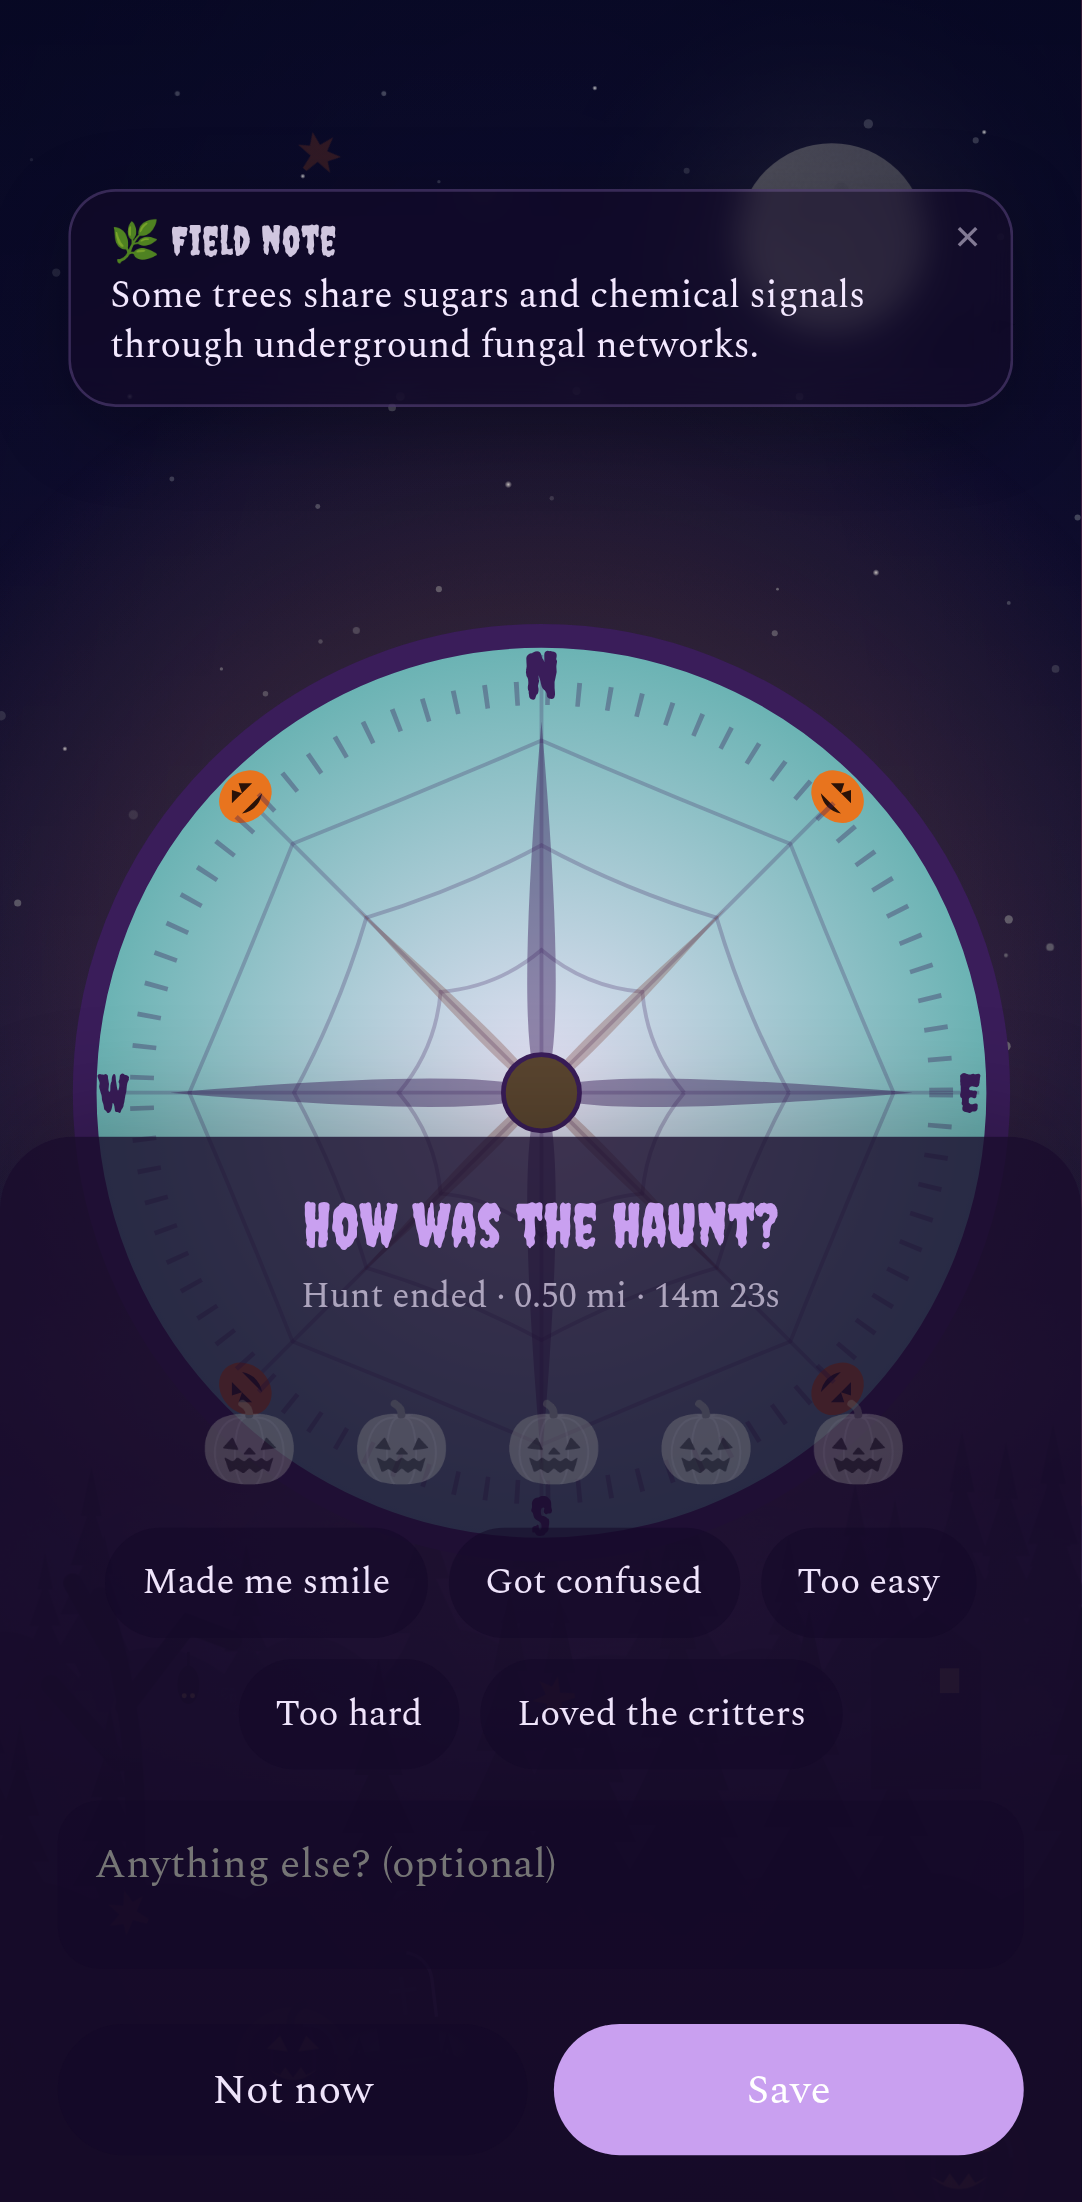
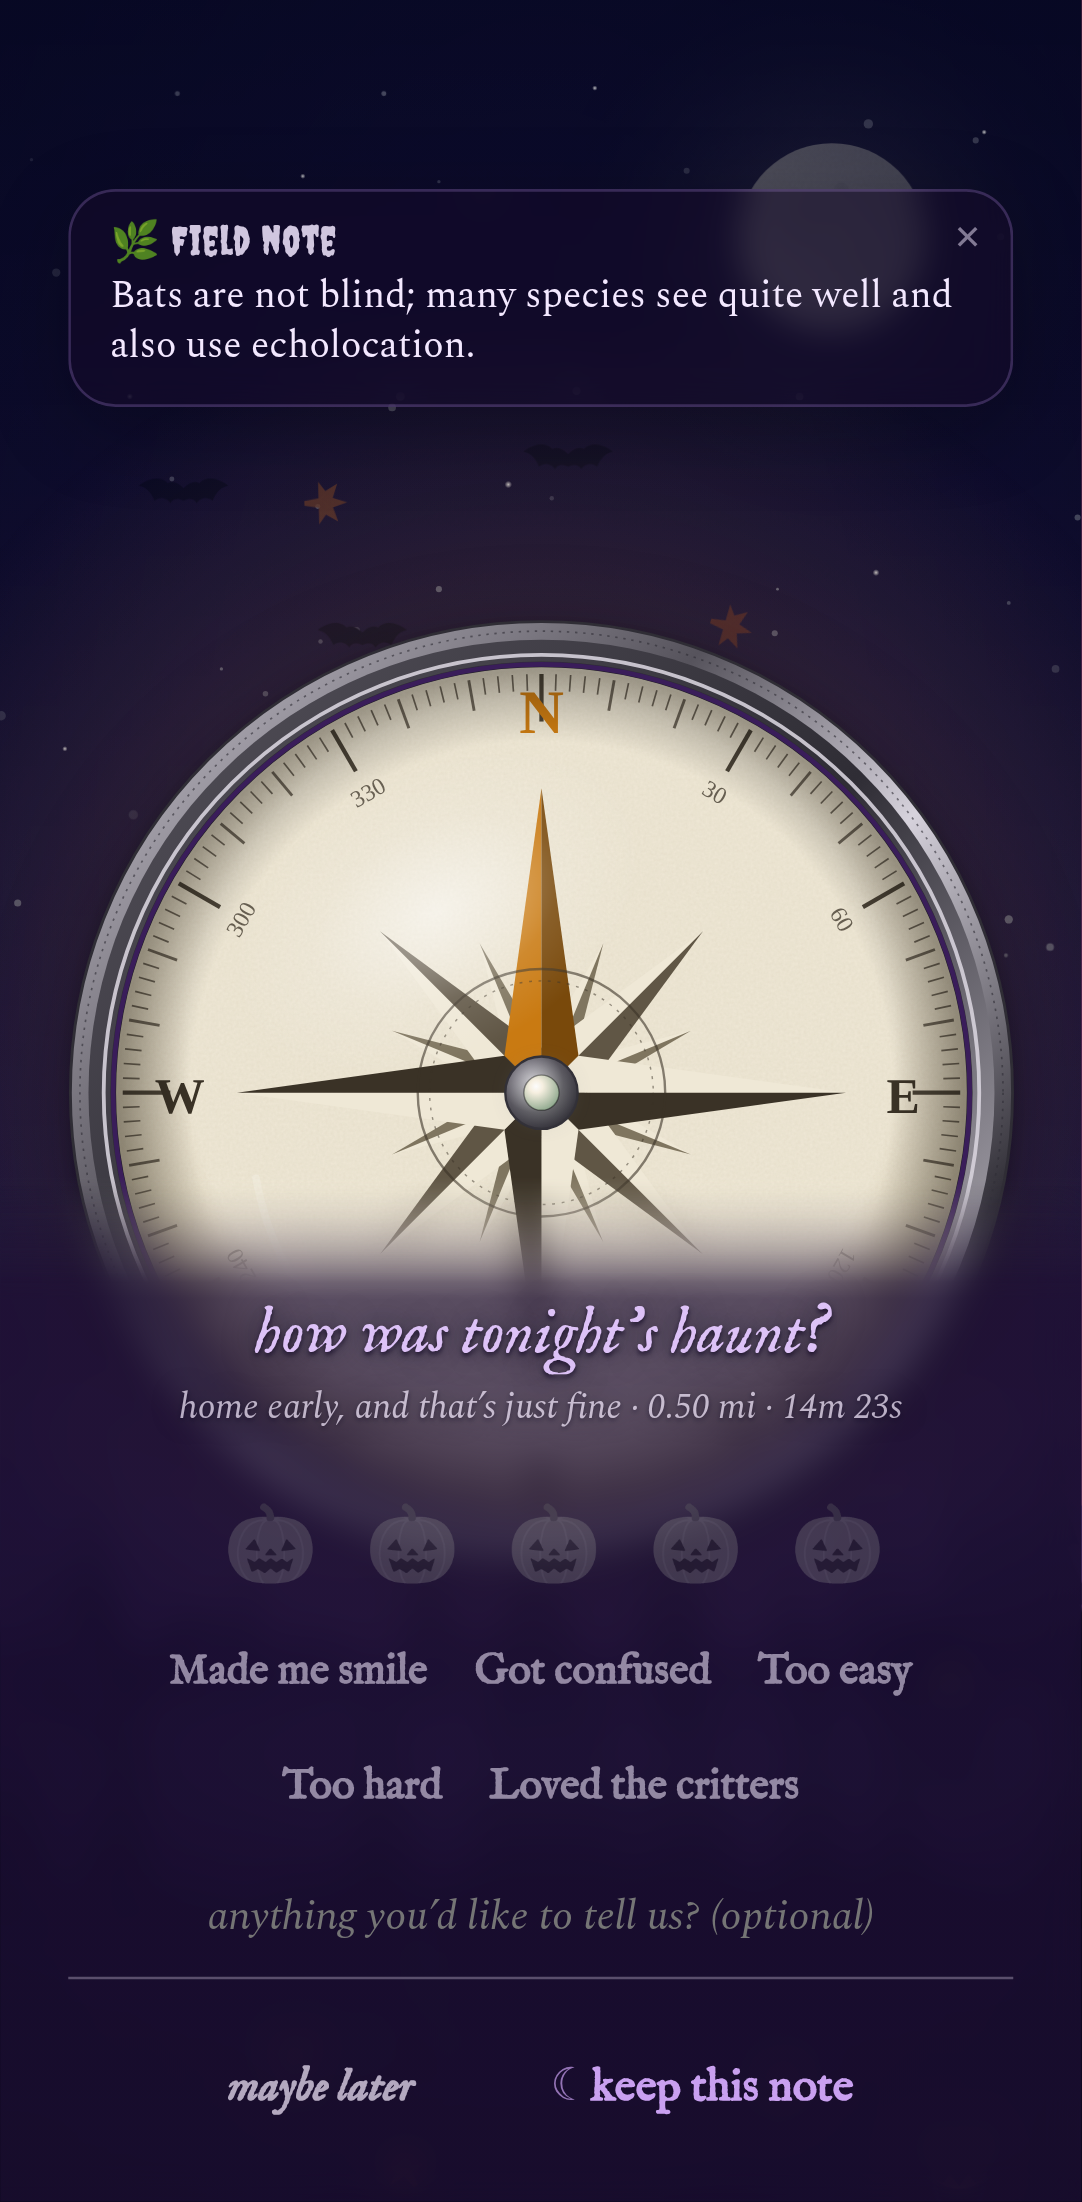
Feedback card (no-bubble, narrator tone, local log, mailto)

diff --git a/index.html b/index.html
@@ -1,5 +1,5 @@
-<!DOCTYPE html><html lang="en"><head><meta charset="utf-8"><meta http-equiv="Cache-Control" content="no-cache, no-store, must-revalidate"><meta http-equiv="Pragma" content="no-cache"><meta http-equiv="Expires" content="0"><meta name="ttu-build" content="202610232222"><meta name="viewport" content="width=device-width,initial-scale=1,viewport-fit=cover">
-<title>Trail Trade-Up · Solo Hunt</title><meta name="theme-color" content="#1f4d3a"><link rel="manifest" href="manifest.json?v=202610232222"><link rel="icon" href="icon-192.png?v=202610232222"><link rel="apple-touch-icon" href="icon-192.png?v=202610232222"><meta name="mobile-web-app-capable" content="yes"><meta name="apple-mobile-web-app-capable" content="yes"><meta name="apple-mobile-web-app-status-bar-style" content="black-translucent"><meta name="apple-mobile-web-app-title" content="Trail Hunt">
+<!DOCTYPE html><html lang="en"><head><meta charset="utf-8"><meta http-equiv="Cache-Control" content="no-cache, no-store, must-revalidate"><meta http-equiv="Pragma" content="no-cache"><meta http-equiv="Expires" content="0"><meta name="ttu-build" content="202610232224"><meta name="viewport" content="width=device-width,initial-scale=1,viewport-fit=cover">
+<title>Trail Trade-Up · Solo Hunt</title><meta name="theme-color" content="#1f4d3a"><link rel="manifest" href="manifest.json?v=202610232224"><link rel="icon" href="icon-192.png?v=202610232224"><link rel="apple-touch-icon" href="icon-192.png?v=202610232224"><meta name="mobile-web-app-capable" content="yes"><meta name="apple-mobile-web-app-capable" content="yes"><meta name="apple-mobile-web-app-status-bar-style" content="black-translucent"><meta name="apple-mobile-web-app-title" content="Trail Hunt">
 <link rel="stylesheet" href="https://unpkg.com/leaflet@1.9.4/dist/leaflet.css"><script src="https://unpkg.com/leaflet@1.9.4/dist/leaflet.js"></script>
 <link rel="preconnect" href="https://fonts.googleapis.com"><link rel="preconnect" href="https://fonts.gstatic.com" crossorigin><link rel="stylesheet" href="https://fonts.googleapis.com/css2?family=Amatic+SC:wght@700&family=Cormorant+Garamond:ital,wght@0,500;0,600;1,500&family=Creepster&family=Fraunces:ital,opsz,wght@0,9..144,400;0,9..144,600;1,9..144,400&family=IM+Fell+English:ital@0;1&family=IM+Fell+English+SC&family=Nunito:wght@400;600;700&family=Pacifico&family=Spectral:ital,wght@0,400;0,600;1,400&display=swap">
 <style>
@@ -1734,5 +1734,60 @@ const sm=document.querySelector('#sxSug small'),ah=esc(A[0])+' <b>'+esc(A[1])+'<
 const w=document.createTreeWalker(b,NodeFilter.SHOW_TEXT);let n;while(n=w.nextNode()){const t=n.textContent.trim();if(t&&T[t]&&T[t]!==t)n.textContent=n.textContent.replace(t,T[t])}}catch(e){}}
 let q=0;new MutationObserver(()=>{if(!q)q=requestAnimationFrame(()=>{q=0;run()})}).observe(document.body,{subtree:true,childList:true,characterData:true,attributes:true,attributeFilter:['data-th']});
 run();window.TTU_VOICE={BEGIN,ADJ,T};})();
+</script>
+<style id="fbCSS">
+#fbCard{position:fixed;left:0;right:0;bottom:0;z-index:9000;padding:44px 26px calc(20px + env(safe-area-inset-bottom));background:linear-gradient(to bottom,transparent,var(--veil,var(--clr,rgba(250,244,230,.8))) 46px)!important;-webkit-backdrop-filter:blur(7px);backdrop-filter:blur(7px);-webkit-mask:linear-gradient(to bottom,transparent,#000 40px);mask:linear-gradient(to bottom,transparent,#000 40px);color:var(--fg,#3b2f22);transform:translateY(40px);opacity:0;transition:transform .6s cubic-bezier(.2,.8,.2,1),opacity .6s;font-family:var(--fb,system-ui);text-align:center;text-shadow:0 1px 2px var(--tsh,transparent),0 0 12px var(--tsh,transparent)}
+#fbCard.on{transform:none;opacity:1}
+#fbCard h3{margin:0 0 2px;font-family:var(--fx,var(--fh,Georgia,serif));font-style:italic;font-weight:500;font-size:calc(1.5rem*var(--fxs,1));color:color-mix(in srgb,var(--sel) 55%,var(--fg))}
+#fbCard .fbS{opacity:.7;font-size:.85rem;font-style:italic;margin:0 0 10px}
+#fbStars{display:flex;justify-content:center;gap:4px;margin:2px 0 10px}
+#fbStars button{width:50px;height:50px;border:0;background:none!important;box-shadow:none;font-size:1.8rem;filter:grayscale(1);opacity:.3;transition:transform .25s,opacity .25s,filter .25s;cursor:pointer}
+#fbStars button.on{filter:drop-shadow(0 0 8px var(--aglow,transparent));opacity:1;transform:scale(1.1)}
+#fbChips{display:flex;flex-wrap:wrap;justify-content:center;gap:2px 14px;margin:0 0 8px}
+#fbChips button{border:0;background:none!important;box-shadow:none;padding:8px 2px;min-height:42px;color:inherit;font-family:var(--fx,var(--fh));font-size:calc(1rem*var(--fxs,1));opacity:.55;cursor:pointer;transition:opacity .25s,color .25s}
+#fbChips button.on{opacity:1;color:var(--sel);font-weight:600}
+#fbNote{width:100%;box-sizing:border-box;border:0;border-bottom:1px solid color-mix(in srgb,var(--fg) 30%,transparent);border-radius:0;padding:8px 2px;background:none;color:inherit;font:inherit;font-style:italic;resize:none;height:44px;text-align:center}
+#fbCard .fbB{display:flex;justify-content:center;gap:28px;margin-top:10px}#fbCard .fbB button,#fbCard .fbB a{min-height:48px;border:0;background:none!important;box-shadow:none;color:inherit;font-family:var(--fx,var(--fh));font-size:calc(1.08rem*var(--fxs,1));cursor:pointer;display:flex;align-items:center;justify-content:center;text-decoration:none}
+#fbSave,#fbShare{color:var(--sel)!important;font-weight:600}#fbSave::before,#fbShare::before{content:var(--tk) ' ';opacity:.7;font-weight:400}#fbSkip{font-style:italic;opacity:.7}
+#fbList .fbE{padding:8px 0;font-size:.9rem}#fbList .fbE small{display:block;opacity:.6;font-style:italic}#fbList .fbA{display:flex;justify-content:center;gap:24px;margin-top:8px}#fbList .fbA a,#fbList .fbA button{min-height:46px;border:0;background:none!important;color:var(--sel)!important;font-family:var(--fx,var(--fh));display:flex;align-items:center;text-decoration:none}#fbList .fbA button{color:inherit!important;font-style:italic;opacity:.7}
+@media (prefers-reduced-motion:reduce){#fbCard{transition:opacity .2s}}
+</style>
+<script id="fbJS">
+/* Post-hunt feedback: themed "How was it?" card + local log + mailto share */
+(function(){const FK='ttu_feedback',TO='artisalivalor1591@gmail.com';
+const ICON={story:'🪶',haunted:'🎃',winter:'❄',golden:'🍂',spring:'🌸',summer:'☀'};
+const CHIPS=['Made me smile','Got confused','Too easy','Too hard','Loved the critters'];
+const TITLE={story:'how did the tale go?',haunted:'how was tonight’s haunt?',winter:'how was the snow?',golden:'how were the woods today?',spring:'how did the stroll feel?',summer:'how was the water?'};
+const load=()=>{try{return JSON.parse(localStorage.getItem(FK)||'[]')}catch(e){return[]}};
+const saveL=a=>{try{localStorage.setItem(FK,JSON.stringify(a.slice(-100)))}catch(e){}};
+const build=()=>{const m=document.querySelector('meta[name="ttu-build"]');return m?m.content:''};
+const mi=m=>(m/1609.34).toFixed(2)+' mi';const dur=ms=>Math.floor(ms/60000)+'m '+Math.floor(ms/1000)%60+'s';
+function line(e){return (e.res==='win'?'Found it':'Ended early')+' · '+e.theme+' · '+e.diff+' · '+dur(e.ms)+' · '+mi(e.m)+' · '+(e.rating?e.rating+'/5':'no rating')+(e.chips.length?' · '+e.chips.join(', '):'')+(e.note?' · "'+e.note+'"':'')}
+function mailto(list){const sub='Trail Trade-Up feedback ('+(list.length>1?list.length+' hunts':list[0].theme+', '+list[0].diff)+')';
+const body='Hi! Here is my Trail Trade-Up feedback.\n\n'+list.map(e=>'• '+new Date(e.t).toLocaleString()+'\n  Result: '+(e.res==='win'?'treasure found':'hunt ended early')+'\n  Theme: '+e.theme+' ('+e.tod+')\n  Difficulty: '+e.diff+'\n  Duration: '+dur(e.ms)+'\n  Distance: '+mi(e.m)+'\n  Rating: '+(e.rating?e.rating+'/5':'—')+'\n  Chips: '+(e.chips.join(', ')||'—')+'\n  Note: '+(e.note||'—')+'\n  Build: '+e.build).join('\n\n')+'\n\n(Sent from my phone. No location included.)';
+return 'mailto:'+TO+'?subject='+encodeURIComponent(sub)+'&body='+encodeURIComponent(body)}
+window.TTU_FB={load,mailto,line};
+let cur=null;
+function card(h){if(document.getElementById('fbCard'))document.getElementById('fbCard').remove();const th=document.body.dataset.th||'story',ic=ICON[th]||'⭐';
+cur={t:Date.now(),res:h.r,theme:th,tod:document.body.dataset.tod||'',diff:h.d,ms:h.ms,m:h.m,rating:0,chips:[],note:'',build:build()};
+const d=document.createElement('div');d.id='fbCard';d.setAttribute('role','dialog');d.setAttribute('aria-label','How was it?');
+d.innerHTML='<h3>'+(TITLE[th]||'How was it?')+'</h3><p class="fbS">'+(h.r==='win'?'treasure in hand':'home early, and that’s just fine')+' · '+mi(h.m)+' · '+dur(h.ms)+'</p><div id="fbStars">'+[1,2,3,4,5].map(n=>'<button type="button" data-n="'+n+'" aria-label="'+n+' of 5">'+ic+'</button>').join('')+'</div><div id="fbChips">'+CHIPS.map(c=>'<button type="button">'+c+'</button>').join('')+'</div><textarea id="fbNote" maxlength="280" placeholder="anything you’d like to tell us? (optional)"></textarea><div class="fbB"><button id="fbSkip" type="button">maybe later</button><button id="fbSave" type="button">keep this note</button></div>';
+document.body.appendChild(d);requestAnimationFrame(()=>requestAnimationFrame(()=>d.classList.add('on')));
+d.querySelectorAll('#fbStars button').forEach(b=>b.onclick=()=>{cur.rating=+b.dataset.n;d.querySelectorAll('#fbStars button').forEach(x=>x.classList.toggle('on',+x.dataset.n<=cur.rating));try{navigator.vibrate&&navigator.vibrate(12)}catch(e){}});
+d.querySelectorAll('#fbChips button').forEach(b=>b.onclick=()=>{b.classList.toggle('on');cur.chips=[...d.querySelectorAll('#fbChips button.on')].map(x=>x.textContent)});
+document.getElementById('fbSkip').onclick=close;
+document.getElementById('fbSave').onclick=()=>{cur.note=document.getElementById('fbNote').value.trim();const a=load();a.push(cur);saveL(a);list();
+d.querySelector('.fbB').outerHTML='<p class="fbS" style="margin-top:12px">thank you, tucked away on this phone</p><div class="fbB"><button id="fbSkip" type="button">all done</button><a id="fbShare" href="'+mailto([cur])+'">send it our way ✉</a></div>';
+document.getElementById('fbSkip').onclick=close;document.getElementById('fbShare').addEventListener('click',()=>setTimeout(close,400))}}
+function close(){const d=document.getElementById('fbCard');if(!d)return;d.classList.remove('on');setTimeout(()=>d.remove(),500)}
+window.TTU_FB.card=card;window.TTU_FB.close=close;
+function list(){const p=document.getElementById('s_dn');if(!p)return;let el=document.getElementById('fbList');const a=load();
+if(!el){el=document.createElement('details');el.id='fbList';el.className='more';const at=document.getElementById('sxProf');(at&&at.parentNode?at.parentNode:p).appendChild(el)}
+const open=el.open;el.innerHTML='<summary>your notes from the trail'+(a.length?' ('+a.length+')':'')+'</summary>'+(a.length?a.slice(-8).reverse().map(e=>'<div class="fbE">'+(ICON[e.theme]||'⭐').repeat(e.rating||0)+' '+(e.res==='win'?'Found it':'Ended early')+'<small>'+new Date(e.t).toLocaleDateString()+' · '+line(e).split(' · ').slice(1).join(' · ')+'</small></div>').join('')+'<div class="fbA"><a href="'+mailto(a.slice(-10))+'">send them our way ✉</a><button type="button" id="fbClr">clear the notes</button></div>':'<div class="fbE"><small>nothing here yet. After a hunt you can leave a little note, and it stays on this phone unless you choose to send it.</small></div>');el.open=open;
+const c=document.getElementById('fbClr');c&&(c.onclick=async e=>{e.preventDefault();if(await ask('Clear your saved feedback?',[['Clear','y','primary'],['Keep','n']])==='y'){saveL([]);list()}})}
+window.TTU_FB.list=list;
+const orig=record;record=function(res){const r=orig.apply(this,arguments);try{if(r!==null){const h=P.hist[P.hist.length-1];if(h)setTimeout(()=>card(h),res==='win'?1600:900)}}catch(e){}return r};
+list();setTimeout(list,1200);
+})();
 </script>
 </body></html>
